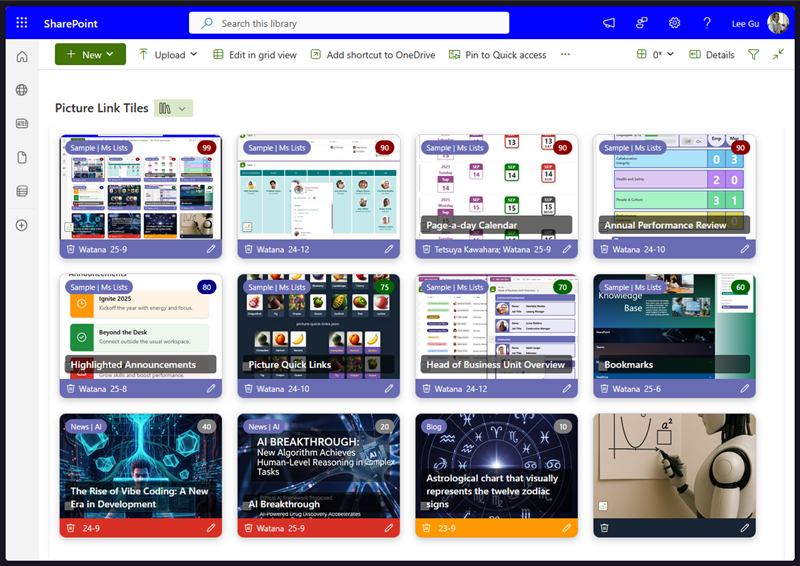
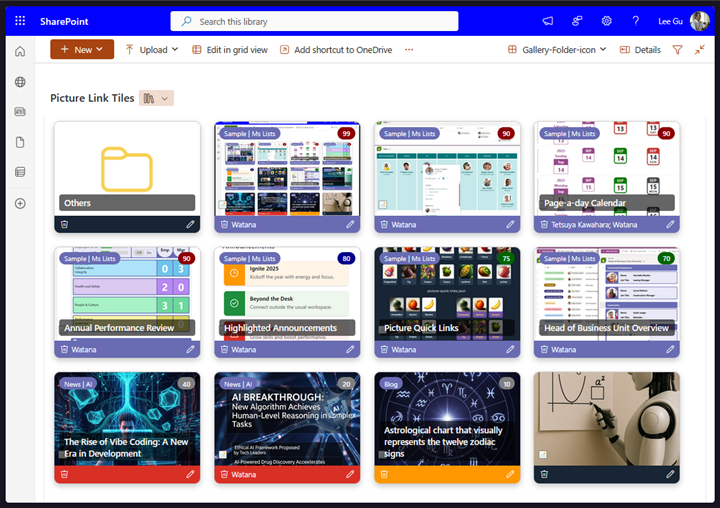
Update picture link tiles doc lib sample (#993)
* v1.1 folder handling

* v1.1 updates

* v1.1 folder handling

* v1.1 folder handling

* Remove empty lines

diff --git a/view-samples/picture-link-tiles-doc-lib/README.md b/view-samples/picture-link-tiles-doc-lib/README.md
@@ -12,7 +12,7 @@ Key features:
 * Includes a footer with a delete button, source, published date, and an edit button.
 * Changes the footer’s background color based on the category: Sample purple, News red, Blog orange, else dark blue.
 > [!NOTE]
-> All columns must be included in the gallery view.
+> All columns must be included in the gallery view and an additional internal column name `Type` for checking folder.
 
 ![Screenshot of the sample](./assets/screenshot.png)
 
@@ -20,7 +20,7 @@ Key features:
 This sample displays card-style tiles grouped by category, with a basic click-to-open feature.
 
 > [!NOTE]
-> `Title` and `URL` columns must be included in the gallery view.
+> `Title` and `URL` columns must be included in the gallery view and an additional internal column name `Type`.
 
 ![sample screenshot](./assets/minimal.png)
 
@@ -49,10 +49,10 @@ picture-link-tiles-doc-lib-minimal.json | [Watana](https://github.com/watana2)
 ## Version history
 Version|Date|Comments
 -------|----|-
-1.0    | September 24, 2025 | Initial release
-
+1.0    | September 24, 2025 | Initial release.
+1.1    |   October 25, 2025 | Added folder handling functionality.
 
 ## Disclaimer
 **THIS CODE IS PROVIDED *AS IS* WITHOUT WARRANTY OF ANY KIND, EITHER EXPRESS OR IMPLIED, INCLUDING ANY IMPLIED WARRANTIES OF FITNESS FOR A PARTICULAR PURPOSE, MERCHANTABILITY, OR NON-INFRINGEMENT.**
 
-<img src="https://pnptelemetry.azurewebsites.net/list-formatting/view-samples/picture-link-tiles-doc-lib" />
+<img src="https://pnptelemetry.azurewebsites.net/list-formatting/view-samples/picture-link-tiles-doc-lib"/>
